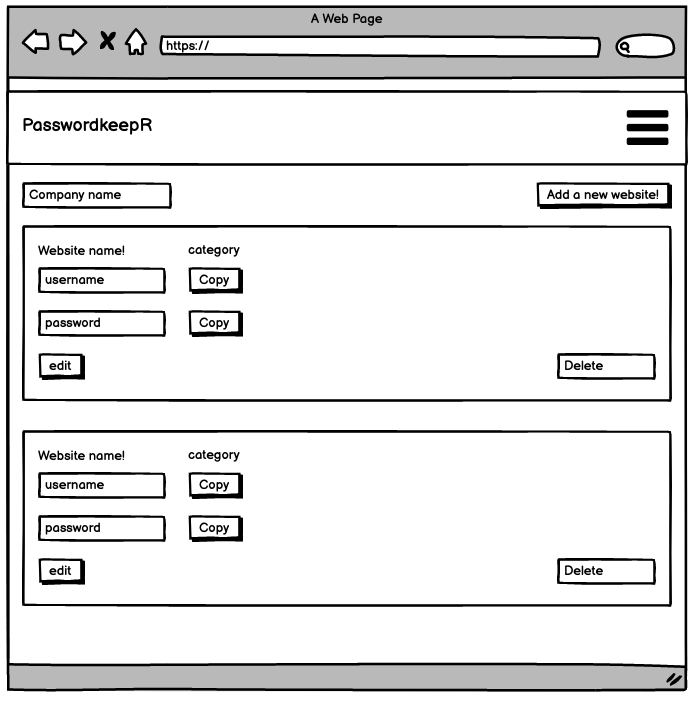
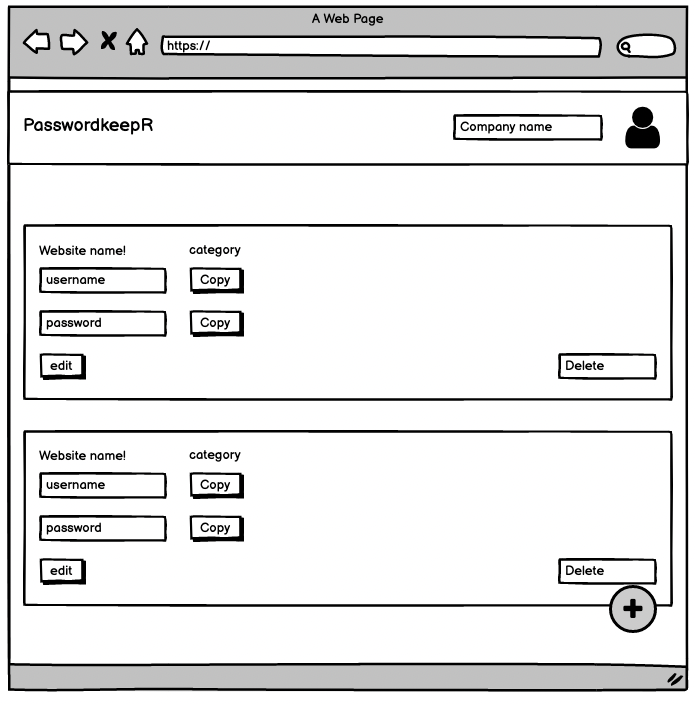
add bootstrap CSS and update wireframe

diff --git a/public/index.html b/public/index.html
@@ -4,6 +4,12 @@
 <head>
   <title>Home Page</title>
 
+  <!-- Bootstrap CSS -->
+  <link rel="stylesheet" href="https://cdn.jsdelivr.net/npm/bootstrap@4.6.0/dist/css/bootstrap.min.css" integrity="sha384-B0vP5xmATw1+K9KRQjQERJvTumQW0nPEzvF6L/Z6nronJ3oUOFUFpCjEUQouq2+l" crossorigin="anonymous">
+  <!-- Bootstrap JS -->
+  <script src="https://code.jquery.com/jquery-3.5.1.slim.min.js" integrity="sha384-DfXdz2htPH0lsSSs5nCTpuj/zy4C+OGpamoFVy38MVBnE+IbbVYUew+OrCXaRkfj" crossorigin="anonymous" defer></script>
+  <script src="https://cdn.jsdelivr.net/npm/bootstrap@4.6.0/dist/js/bootstrap.bundle.min.js" integrity="sha384-Piv4xVNRyMGpqkS2by6br4gNJ7DXjqk09RmUpJ8jgGtD7zP9yug3goQfGII0yAns" crossorigin="anonymous" defer></script>
+
   <link rel="stylesheet" href="/vendor/normalize-4.1.1.css" type="text/css" />
   <link rel="stylesheet" href="/vendor/border-box.css" type="text/css" />
   <link rel="stylesheet" href="/styles/main.css" type="text/css" />
@@ -14,6 +20,65 @@
 </head>
 
 <body>
+  <nav class="navbar navbar-expand-lg navbar-light bg-light">
+    <a class="navbar-brand" href="#">PasswordkeepR</a>
+    <button class="navbar-toggler" type="button" data-toggle="collapse" data-target="#navbarNav" aria-controls="navbarNav" aria-expanded="false" aria-label="Toggle navigation">
+      <span class="navbar-toggler-icon"></span>
+    </button>
+    <div class="collapse navbar-collapse" id="navbarNav">
+      <ul class="navbar-nav">
+        <li class="nav-item active">
+          <a class="nav-link" href="#">Home <span class="sr-only">(current)</span></a>
+        </li>
+        <li class="nav-item">
+          <a class="nav-link" href="#">Features</a>
+        </li>
+        <li class="nav-item">
+          <a class="nav-link" href="#">Pricing</a>
+        </li>
+        <li class="nav-item">
+          <a class="nav-link disabled">Disabled</a>
+        </li>
+      </ul>
+      <button class="btn btn-outline-success mr-sm-2 my-2 my-sm-0" type="submit">Search</button>
+    </div>
+  </nav>
+
+  <nav>
+    <div>passwordkeepr</div>
+    <div>company name</div>
+    <div>drop down menu</div>
+  </nav>
+
+  <main>
+
+    <section>
+      <header>
+        <div>website name</div>
+        <div>category</div>
+      </header>
+
+      <div>
+        <p>username</p>
+        <button>copy</button>
+      </div>
+
+      <div>
+        <p>password</p>
+        <button>copy</button>
+      </div>
+
+      <div>
+        <button>edit</button>
+        <button>delete</button>
+      </div>
+    </section>
+
+
+
+  </main>
+
+
   <h1>Have fun!🥔🥔🥔 </h1>
 </body>
 

diff --git a/styles/main.scss b/styles/main.scss
@@ -1,7 +1,4 @@
 body {
-  display: flex;
-  justify-content: center;
-  align-items: center;
   min-height: 100vh;
 
   background: rgb(163, 208, 219);
